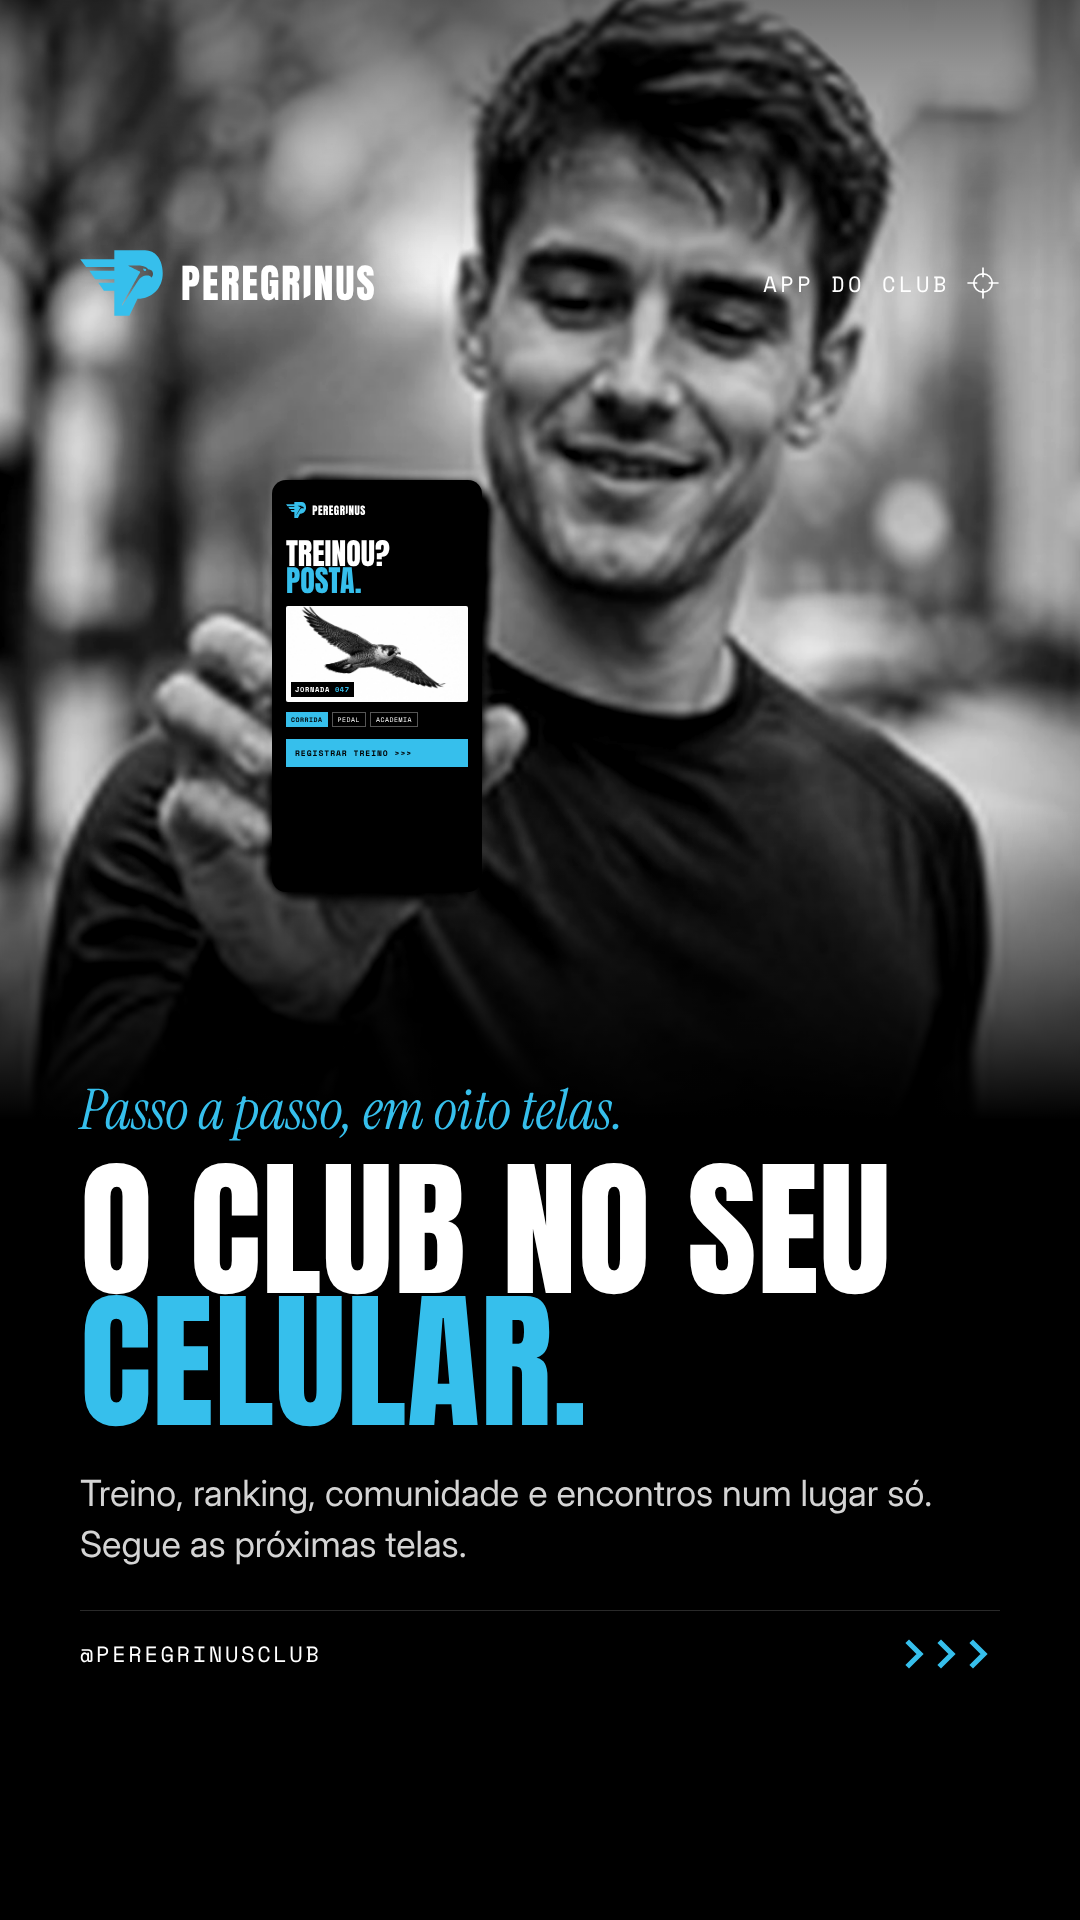
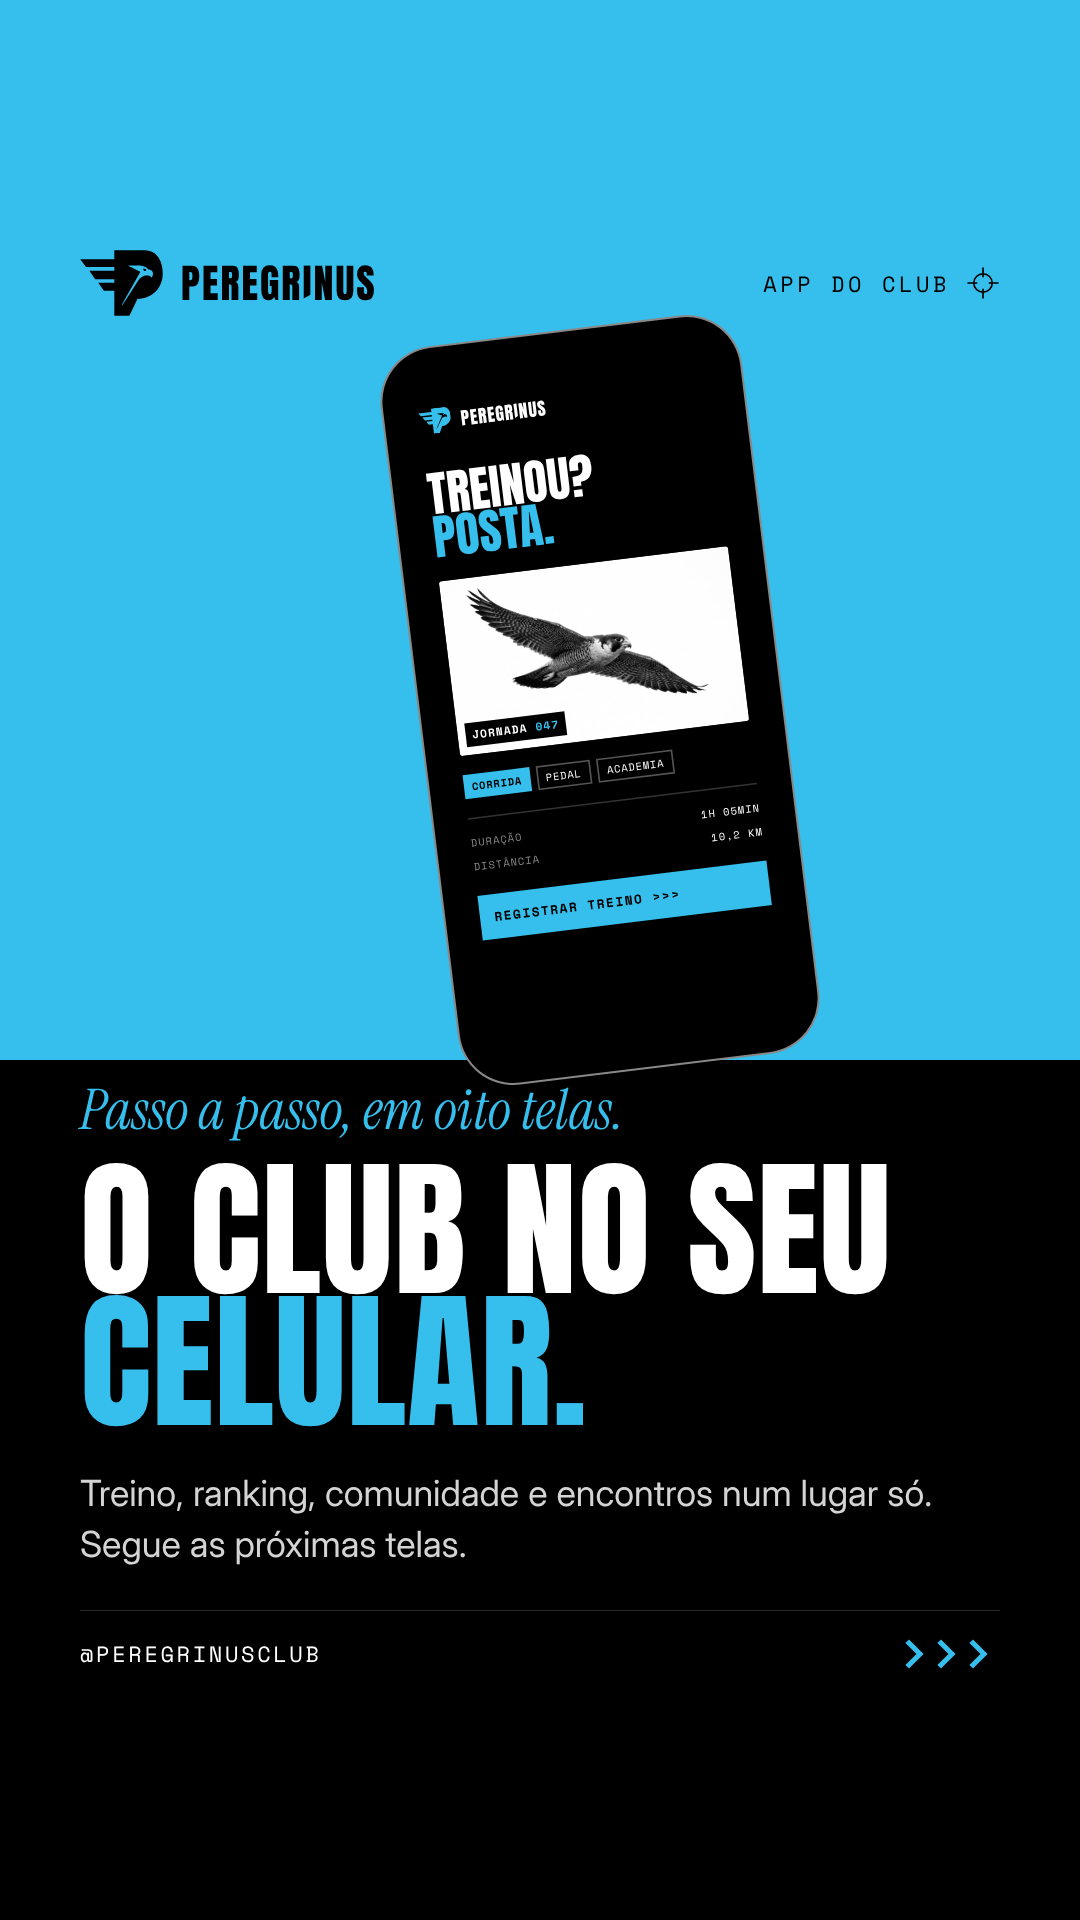
Stories do app: capa com celular desenhado sobre azul, pronta para receber o print real
Claude-Session: https://claude.ai/code/session_01LVriSKNRdrLtdVX5x94ct5

diff --git a/peregrinus/criacoes/stories-como-funciona-app/story-01.html b/peregrinus/criacoes/stories-como-funciona-app/story-01.html
@@ -84,14 +84,19 @@ body.azul .foot svg{color:var(--black)}
 <symbol id="fire" viewBox="0 0 24 24"><path d="M12 2c1 3.5 5 6 5 11a5 5 0 0 1-10 0c0-2.4 1.2-4 2.6-5.3.2 1.6 1 2.8 2.2 3.3C11 8.6 11.3 5 12 2z" fill="none" stroke="currentColor" stroke-width="1.8" stroke-linejoin="round"/></symbol>
 <symbol id="msg" viewBox="0 0 24 24"><path d="M4 5h16v11H9l-5 4z" fill="none" stroke="currentColor" stroke-width="1.8" stroke-linejoin="round"/></symbol>
 </defs></svg>
-<div style="position:absolute;left:0;top:0;width:1080px;height:1120px;background:#000;overflow:hidden;z-index:0"><img src="capa-foto.jpg" alt="" style="position:absolute;left:-200px;top:-150px;width:1500px;filter:grayscale(1) contrast(1.1)"><div style="position:absolute;left:272px;top:480px;width:210px;height:412px;transform:scale(1.000);transform-origin:0 0;background:#000;border-radius:14px;overflow:hidden;font-family:Inter;color:#fff;padding:22px 14px">
+<div style="position:absolute;left:0;top:0;width:1080px;height:1060px;background:#36BFEC;z-index:0"></div><div style="position:absolute;inset:0;z-index:1"><div style="position:absolute;left:420px;top:330px;width:360px;height:740px;background:#000;border-radius:54px;padding:12px;transform:rotate(-7deg);box-shadow:0 0 0 2px #888">
+  <div style="width:100%;height:100%;border-radius:42px;overflow:hidden;background:#000;position:relative"><div style="width:210px;height:448px;transform:scale(1.600);transform-origin:0 0;font-family:Inter;color:#fff;padding:30px 14px">
   <div style="display:flex;align-items:center;gap:6px"><svg viewBox="0 0 690 548" style="height:16px;width:auto;fill:#36BFEC"><use href="#fal"/></svg><span class="wm" style="font-size:11px">PEREGR<span class="i">I</span>NUS</span></div>
-  <div style="font-family:Anton;font-size:30px;line-height:.9;margin-top:22px">TREINOU?<br><span style="color:#36BFEC">POSTA.</span></div>
-  <div style="margin-top:12px;height:96px;background:#222;border-radius:2px;position:relative;overflow:hidden"><img src="falcao-voo.jpg" style="width:100%;height:100%;object-fit:cover;filter:grayscale(1)"><span style="position:absolute;left:5px;bottom:5px;background:#000;font-family:'Space Mono';font-size:7px;letter-spacing:.1em;padding:2px 4px;font-weight:700">JORNADA <b style="color:#36BFEC">047</b></span></div>
-  <div style="display:flex;gap:4px;margin-top:10px;font-family:'Space Mono';font-size:6.5px;letter-spacing:.08em"><span style="background:#36BFEC;color:#000;padding:3px 5px;font-weight:700">CORRIDA</span><span style="border:1px solid #555;padding:2px 5px">PEDAL</span><span style="border:1px solid #555;padding:2px 5px">ACADEMIA</span></div>
-  <div style="margin-top:12px;background:#36BFEC;color:#000;font-family:'Space Mono';font-weight:700;font-size:8px;letter-spacing:.12em;padding:8px 9px">REGISTRAR TREINO &gt;&gt;&gt;</div>
-</div><div style="position:absolute;inset:0;background:linear-gradient(180deg,rgba(0,0,0,.55) 0%,rgba(0,0,0,0) 26%,rgba(0,0,0,0) 72%,#000 100%)"></div></div>
-<div class="safe"><div class="capa-foto"><div class="top"><div class="lockup"><svg viewBox="0 0 690 548"><use href="#fal"/></svg><span class="wm">PEREGR<span class="i">I</span>NUS</span></div><div class="tag"><span>App do club</span><svg><use href="#xh"/></svg></div></div></div>
+  <div style="font-family:Anton;font-size:30px;line-height:.9;margin-top:24px">TREINOU?<br><span style="color:#36BFEC">POSTA.</span></div>
+  <div style="margin-top:14px;height:110px;background:#222;border-radius:2px;position:relative;overflow:hidden"><img src="falcao-voo.jpg" style="width:100%;height:100%;object-fit:cover;filter:grayscale(1)"><span style="position:absolute;left:5px;bottom:5px;background:#000;font-family:'Space Mono';font-size:7px;letter-spacing:.1em;padding:2px 4px;font-weight:700">JORNADA <b style="color:#36BFEC">047</b></span></div>
+  <div style="display:flex;gap:4px;margin-top:12px;font-family:'Space Mono';font-size:6.5px;letter-spacing:.08em"><span style="background:#36BFEC;color:#000;padding:3px 5px;font-weight:700">CORRIDA</span><span style="border:1px solid #555;padding:2px 5px">PEDAL</span><span style="border:1px solid #555;padding:2px 5px">ACADEMIA</span></div>
+  <div style="margin-top:12px;border-top:1px solid #333;padding-top:10px;display:flex;justify-content:space-between;font-family:'Space Mono';font-size:6.5px;letter-spacing:.1em;color:#888"><span>DURAÇÃO</span><span style="color:#fff">1H 05MIN</span></div>
+  <div style="margin-top:6px;display:flex;justify-content:space-between;font-family:'Space Mono';font-size:6.5px;letter-spacing:.1em;color:#888"><span>DISTÂNCIA</span><span style="color:#fff">10,2 KM</span></div>
+  <div style="margin-top:14px;background:#36BFEC;color:#000;font-family:'Space Mono';font-weight:700;font-size:8px;letter-spacing:.12em;padding:8px 9px">REGISTRAR TREINO &gt;&gt;&gt;</div>
+</div>
+    <div style="position:absolute;left:50%;top:12px;width:90px;height:26px;margin-left:-45px;background:#000;border-radius:14px"></div></div>
+</div></div>
+<div class="safe"><div class="capa"><div class="top"><div class="lockup"><svg viewBox="0 0 690 548"><use href="#fal"/></svg><span class="wm">PEREGR<span class="i">I</span>NUS</span></div><div class="tag"><span>App do club</span><svg><use href="#xh"/></svg></div></div></div>
 <div class="mid" style="justify-content:flex-end;padding-bottom:40px">
   <div class="eyebrow">Passo a passo, em oito telas.</div>
   <div class="title" style="font-size:150px">O club no seu <em>celular.</em></div>

diff --git a/peregrinus/criacoes/stories-como-funciona-app/gerar.py b/peregrinus/criacoes/stories-como-funciona-app/gerar.py
@@ -124,27 +124,33 @@ DEG = '<span class="deg"><i></i><i></i><i></i></span>'
 STORIES = []
 
 # 01 · capa
-# Foto P&B de alguém com o celular (capa-foto.jpg, quadrada) com a tela do app encaixada no celular.
-# Posição da tela medida na foto: x 31,5% a 45,5%, y 42% a 69,5%. Se trocar a foto, ajuste TELA.
-FOTO = dict(w=1500, left=-200, top=-150)
-TELA = dict(x0=.315, x1=.455, y0=.42, y1=.695)
-tx, ty = FOTO["left"] + TELA["x0"] * FOTO["w"], FOTO["top"] + TELA["y0"] * FOTO["w"]
-tw, th = (TELA["x1"] - TELA["x0"]) * FOTO["w"], (TELA["y1"] - TELA["y0"]) * FOTO["w"]
-k = tw / 210
-APP = f"""<div style="position:absolute;left:{tx:.0f}px;top:{ty:.0f}px;width:210px;height:{th / k:.0f}px;transform:scale({k:.3f});transform-origin:0 0;background:#000;border-radius:14px;overflow:hidden;font-family:Inter;color:#fff;padding:22px 14px">
+# Celular desenhado sobre bloco azul. Se existir print-app.png (print real do app) nesta pasta,
+# ele aparece na tela; senão entra a tela desenhada no padrão da marca.
+PW, PH, PB = 360, 740, 12  # largura, altura e borda do celular
+if os.path.exists(os.path.join(AQUI, "print-app.png")):
+    TELA_APP = '<img src="print-app.png" alt="" style="width:100%;height:100%;object-fit:cover;object-position:top">'
+else:
+    k = (PW - 2 * PB) / 210
+    TELA_APP = f"""<div style="width:210px;height:{(PH - 2 * PB) / k:.0f}px;transform:scale({k:.3f});transform-origin:0 0;font-family:Inter;color:#fff;padding:30px 14px">
   <div style="display:flex;align-items:center;gap:6px"><svg viewBox="0 0 690 548" style="height:16px;width:auto;fill:#36BFEC"><use href="#fal"/></svg><span class="wm" style="font-size:11px">PEREGR<span class="i">I</span>NUS</span></div>
-  <div style="font-family:Anton;font-size:30px;line-height:.9;margin-top:22px">TREINOU?<br><span style="color:#36BFEC">POSTA.</span></div>
-  <div style="margin-top:12px;height:96px;background:#222;border-radius:2px;position:relative;overflow:hidden"><img src="falcao-voo.jpg" style="width:100%;height:100%;object-fit:cover;filter:grayscale(1)"><span style="position:absolute;left:5px;bottom:5px;background:#000;font-family:'Space Mono';font-size:7px;letter-spacing:.1em;padding:2px 4px;font-weight:700">JORNADA <b style="color:#36BFEC">047</b></span></div>
-  <div style="display:flex;gap:4px;margin-top:10px;font-family:'Space Mono';font-size:6.5px;letter-spacing:.08em"><span style="background:#36BFEC;color:#000;padding:3px 5px;font-weight:700">CORRIDA</span><span style="border:1px solid #555;padding:2px 5px">PEDAL</span><span style="border:1px solid #555;padding:2px 5px">ACADEMIA</span></div>
-  <div style="margin-top:12px;background:#36BFEC;color:#000;font-family:'Space Mono';font-weight:700;font-size:8px;letter-spacing:.12em;padding:8px 9px">REGISTRAR TREINO &gt;&gt;&gt;</div>
+  <div style="font-family:Anton;font-size:30px;line-height:.9;margin-top:24px">TREINOU?<br><span style="color:#36BFEC">POSTA.</span></div>
+  <div style="margin-top:14px;height:110px;background:#222;border-radius:2px;position:relative;overflow:hidden"><img src="falcao-voo.jpg" style="width:100%;height:100%;object-fit:cover;filter:grayscale(1)"><span style="position:absolute;left:5px;bottom:5px;background:#000;font-family:'Space Mono';font-size:7px;letter-spacing:.1em;padding:2px 4px;font-weight:700">JORNADA <b style="color:#36BFEC">047</b></span></div>
+  <div style="display:flex;gap:4px;margin-top:12px;font-family:'Space Mono';font-size:6.5px;letter-spacing:.08em"><span style="background:#36BFEC;color:#000;padding:3px 5px;font-weight:700">CORRIDA</span><span style="border:1px solid #555;padding:2px 5px">PEDAL</span><span style="border:1px solid #555;padding:2px 5px">ACADEMIA</span></div>
+  <div style="margin-top:12px;border-top:1px solid #333;padding-top:10px;display:flex;justify-content:space-between;font-family:'Space Mono';font-size:6.5px;letter-spacing:.1em;color:#888"><span>DURAÇÃO</span><span style="color:#fff">1H 05MIN</span></div>
+  <div style="margin-top:6px;display:flex;justify-content:space-between;font-family:'Space Mono';font-size:6.5px;letter-spacing:.1em;color:#888"><span>DISTÂNCIA</span><span style="color:#fff">10,2 KM</span></div>
+  <div style="margin-top:14px;background:#36BFEC;color:#000;font-family:'Space Mono';font-weight:700;font-size:8px;letter-spacing:.12em;padding:8px 9px">REGISTRAR TREINO &gt;&gt;&gt;</div>
 </div>"""
-STORIES.append(page(f"""<div class="capa-foto">{top("App do club")}</div>
+CELULAR = f"""<div style="position:absolute;left:{(1080 - PW) / 2 + 60:.0f}px;top:330px;width:{PW}px;height:{PH}px;background:#000;border-radius:54px;padding:{PB}px;transform:rotate(-7deg);box-shadow:0 0 0 2px #888">
+  <div style="width:100%;height:100%;border-radius:42px;overflow:hidden;background:#000;position:relative">{TELA_APP}
+    <div style="position:absolute;left:50%;top:12px;width:90px;height:26px;margin-left:-45px;background:#000;border-radius:14px"></div></div>
+</div>"""
+STORIES.append(page(f"""<div class="capa">{top("App do club")}</div>
 <div class="mid" style="justify-content:flex-end;padding-bottom:40px">
   <div class="eyebrow">Passo a passo, em oito telas.</div>
   <div class="title" style="font-size:150px">O club no seu <em>celular.</em></div>
   <div class="body">Treino, ranking, comunidade e encontros num lugar só. Segue as próximas telas.</div>
 </div>
-{FOOT}""", extra=f'<div style="position:absolute;left:0;top:0;width:1080px;height:1120px;background:#000;overflow:hidden;z-index:0"><img src="capa-foto.jpg" alt="" style="position:absolute;left:{FOTO["left"]}px;top:{FOTO["top"]}px;width:{FOTO["w"]}px;filter:grayscale(1) contrast(1.1)">{APP}<div style="position:absolute;inset:0;background:linear-gradient(180deg,rgba(0,0,0,.55) 0%,rgba(0,0,0,0) 26%,rgba(0,0,0,0) 72%,#000 100%)"></div></div>'))
+{FOOT}""", extra=f'<div style="position:absolute;left:0;top:0;width:1080px;height:1060px;background:#36BFEC;z-index:0"></div><div style="position:absolute;inset:0;z-index:1">{CELULAR}</div>'))
 
 # 02 · entrar
 STORIES.append(passo(1, "Entre pelo <em style=\"white-space:nowrap\">e-mail.</em>",
